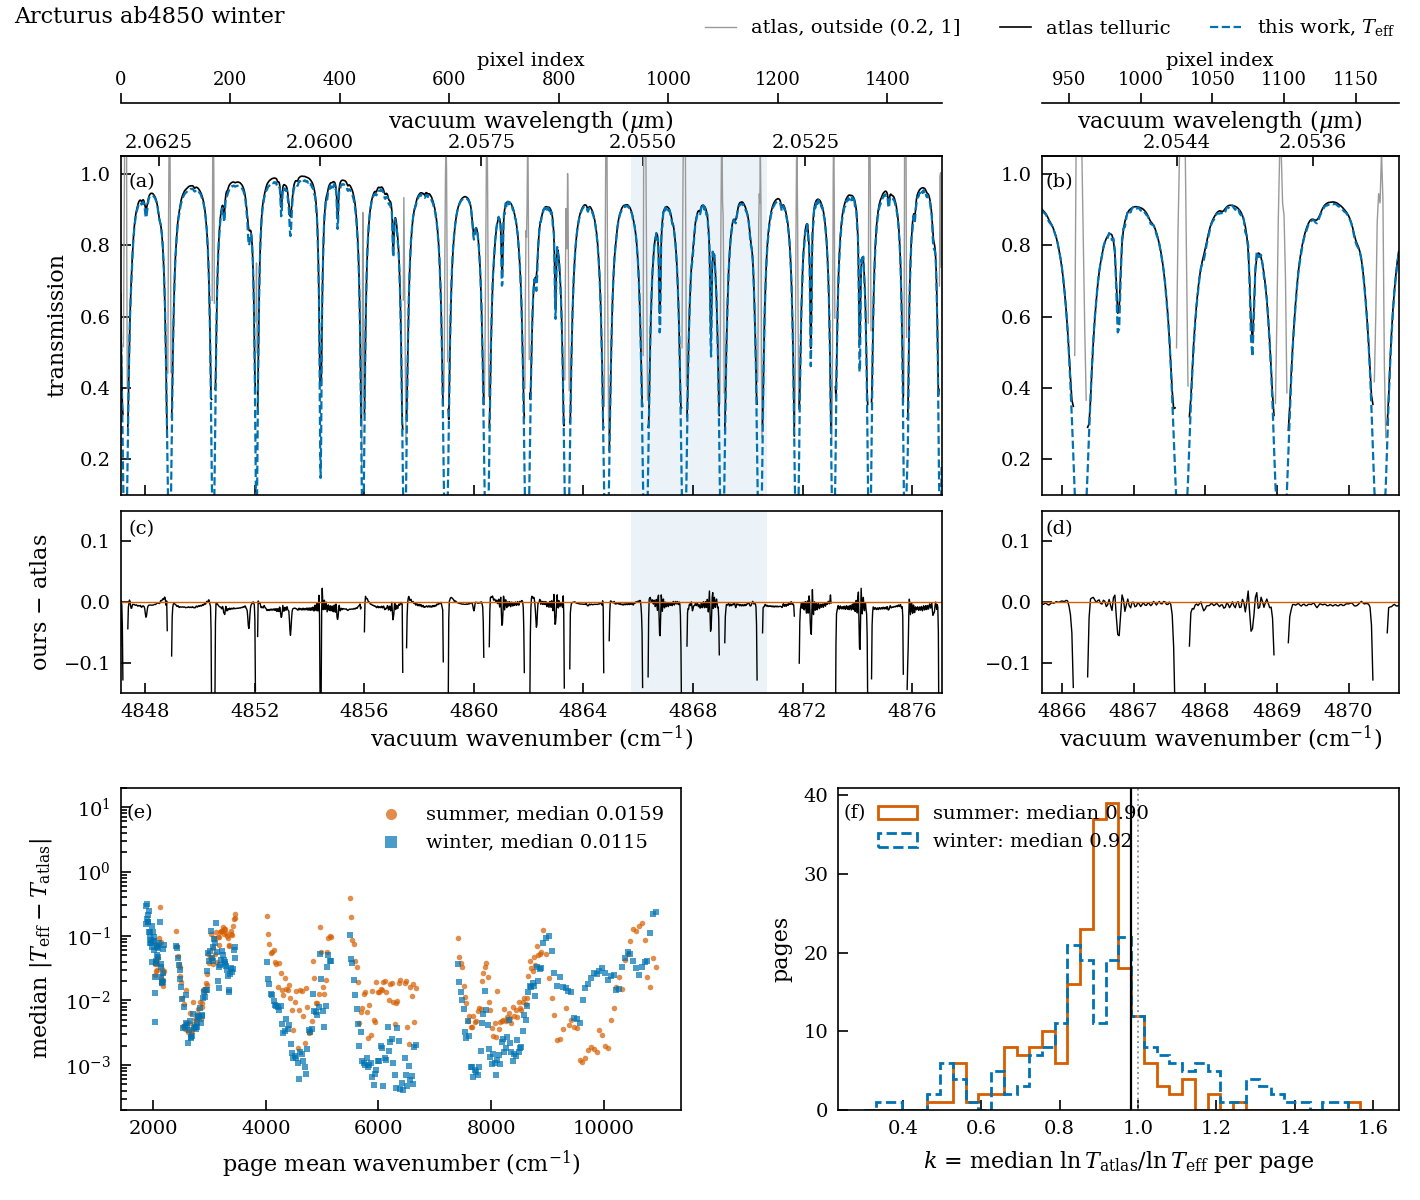
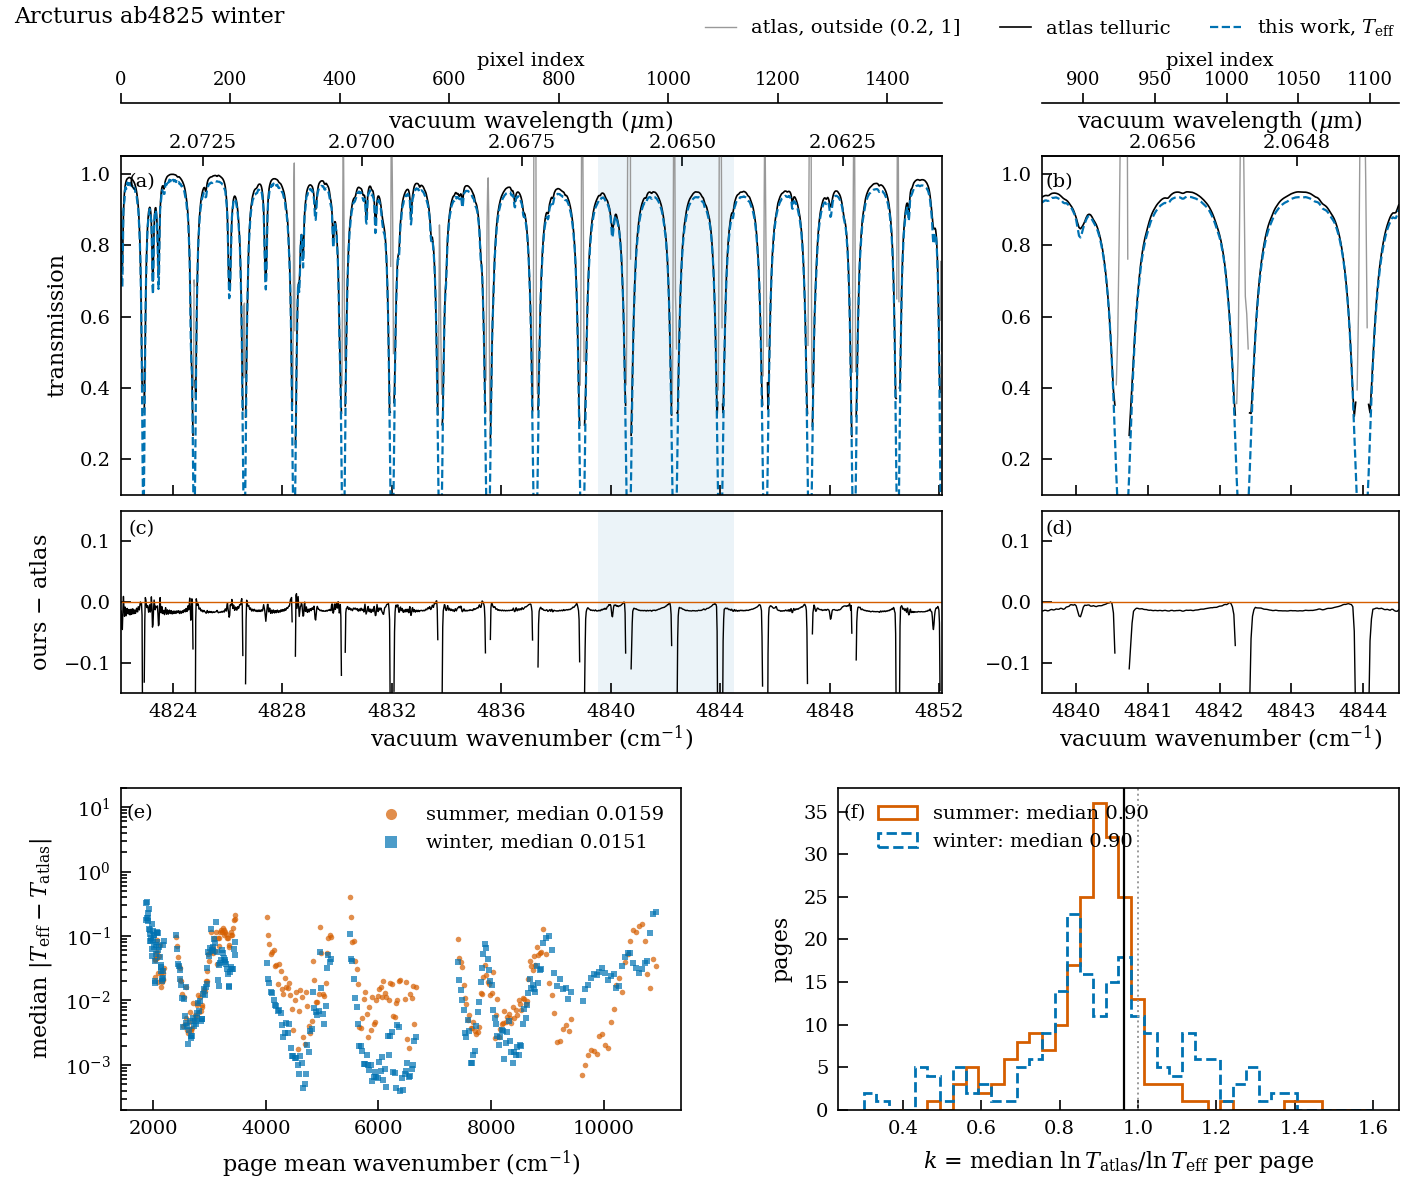
Publish the Arcturus figures from the promoted run

diff --git a/manuscript/index.html b/manuscript/index.html
@@ -7,7 +7,7 @@
 <meta name="viewport" content="width=device-width, initial-scale=1.0, user-scalable=yes">
 
 <meta name="author" content="Jae-Joon Lee">
-<meta name="dcterms.date" content="2026-10-09">
+<meta name="dcterms.date" content="2026-11-08">
 
 <title>tellurix: a differentiable line-by-line telluric model, validated against LBLRTM and applied to IGRINS and FTS atlases – tellurix</title>
 <style>
@@ -410,7 +410,7 @@ ul.task-list li input[type="checkbox"] {
     <div>
     <div class="quarto-title-meta-heading">Published</div>
     <div class="quarto-title-meta-contents">
-      <p class="date">October 9, 2026</p>
+      <p class="date">November 8, 2026</p>
     </div>
   </div>
   
